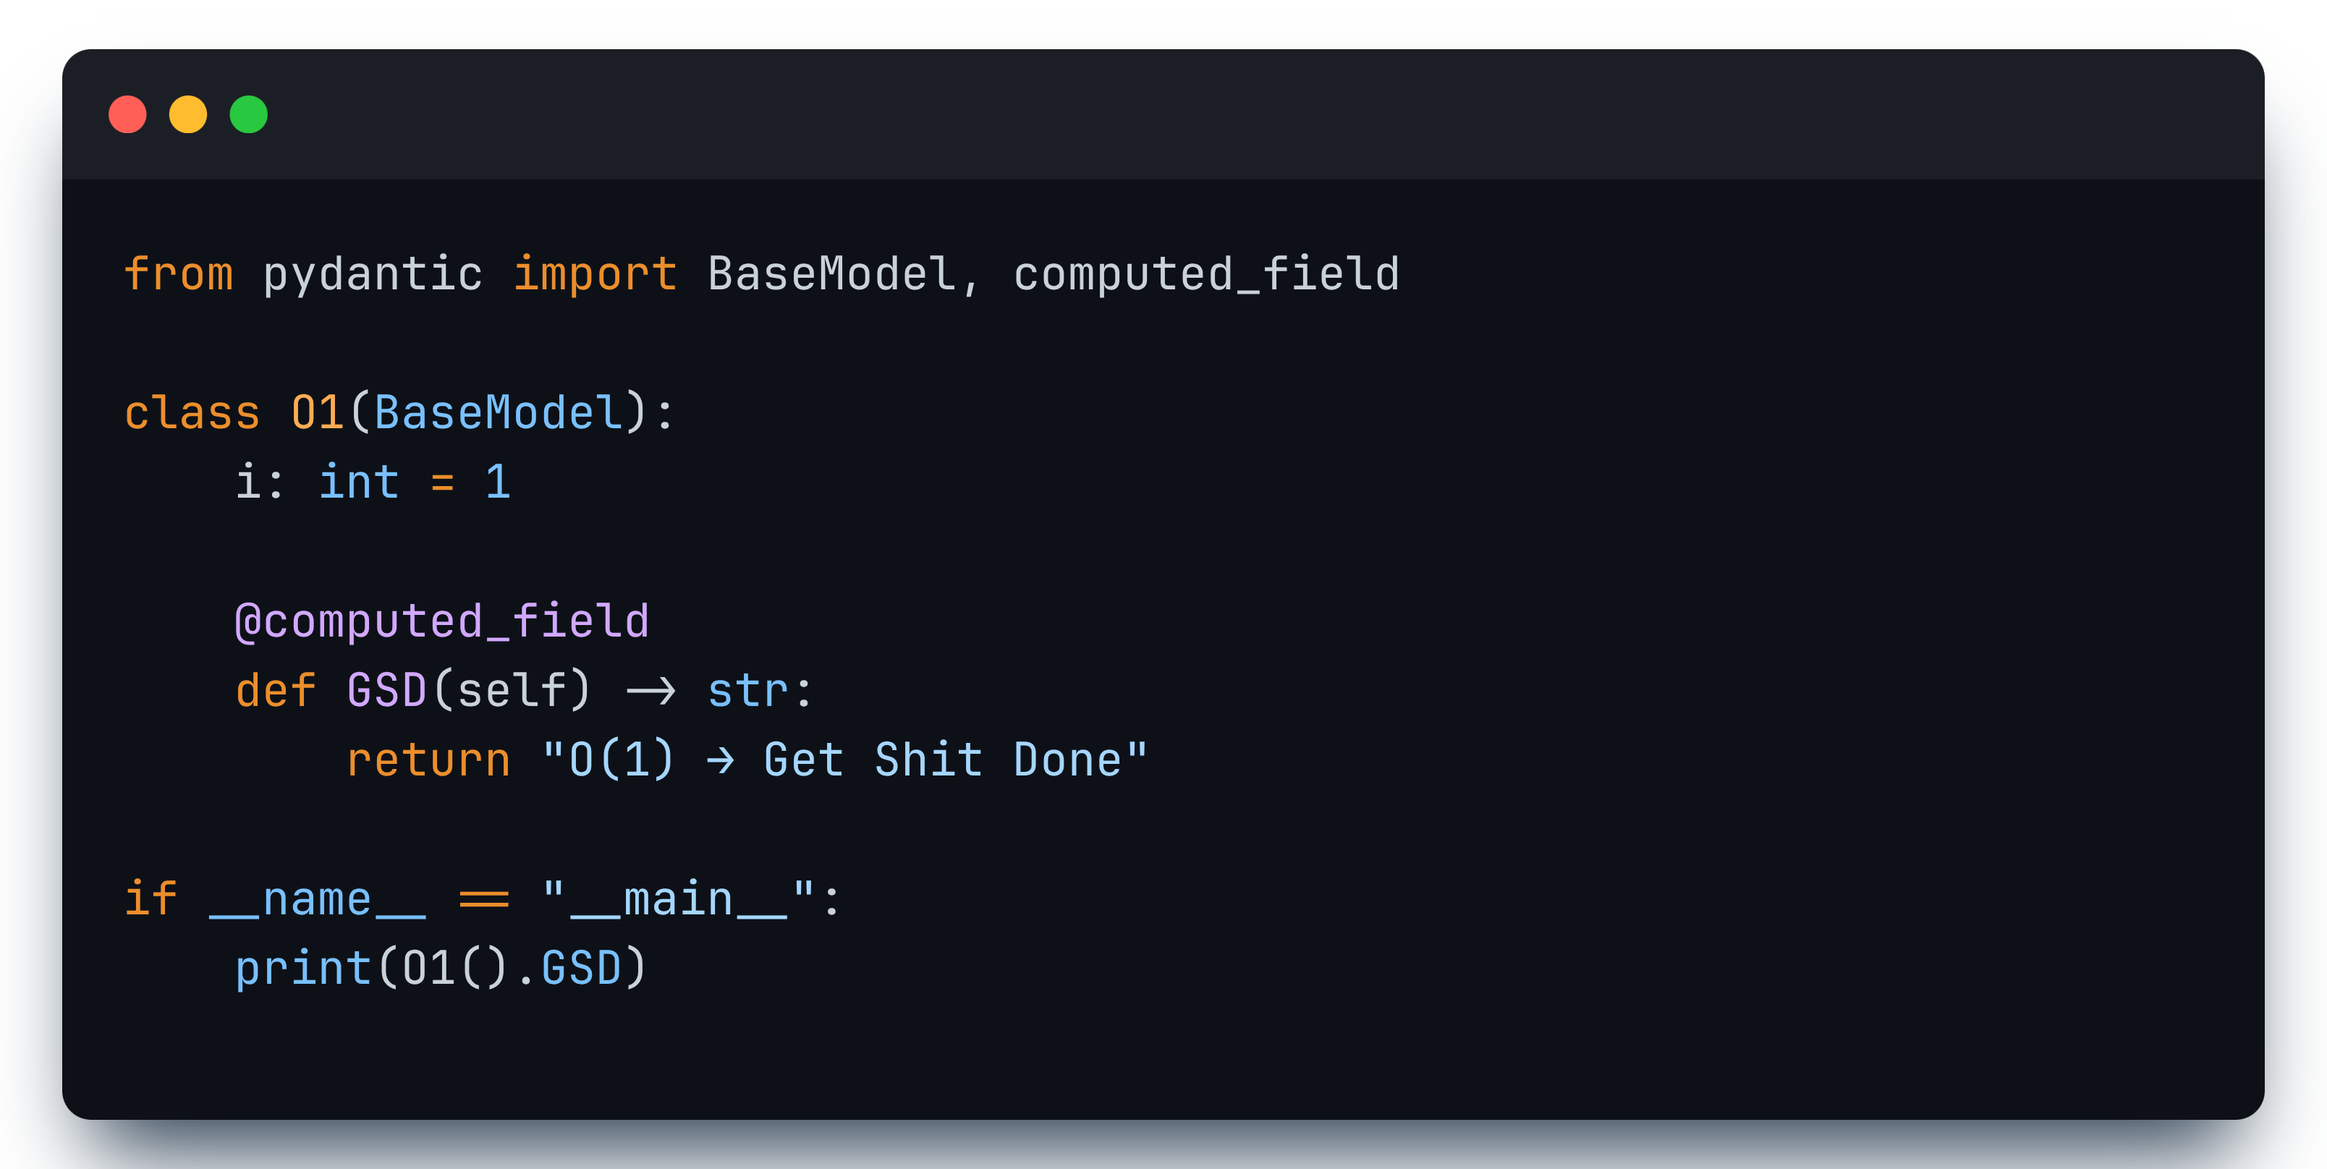
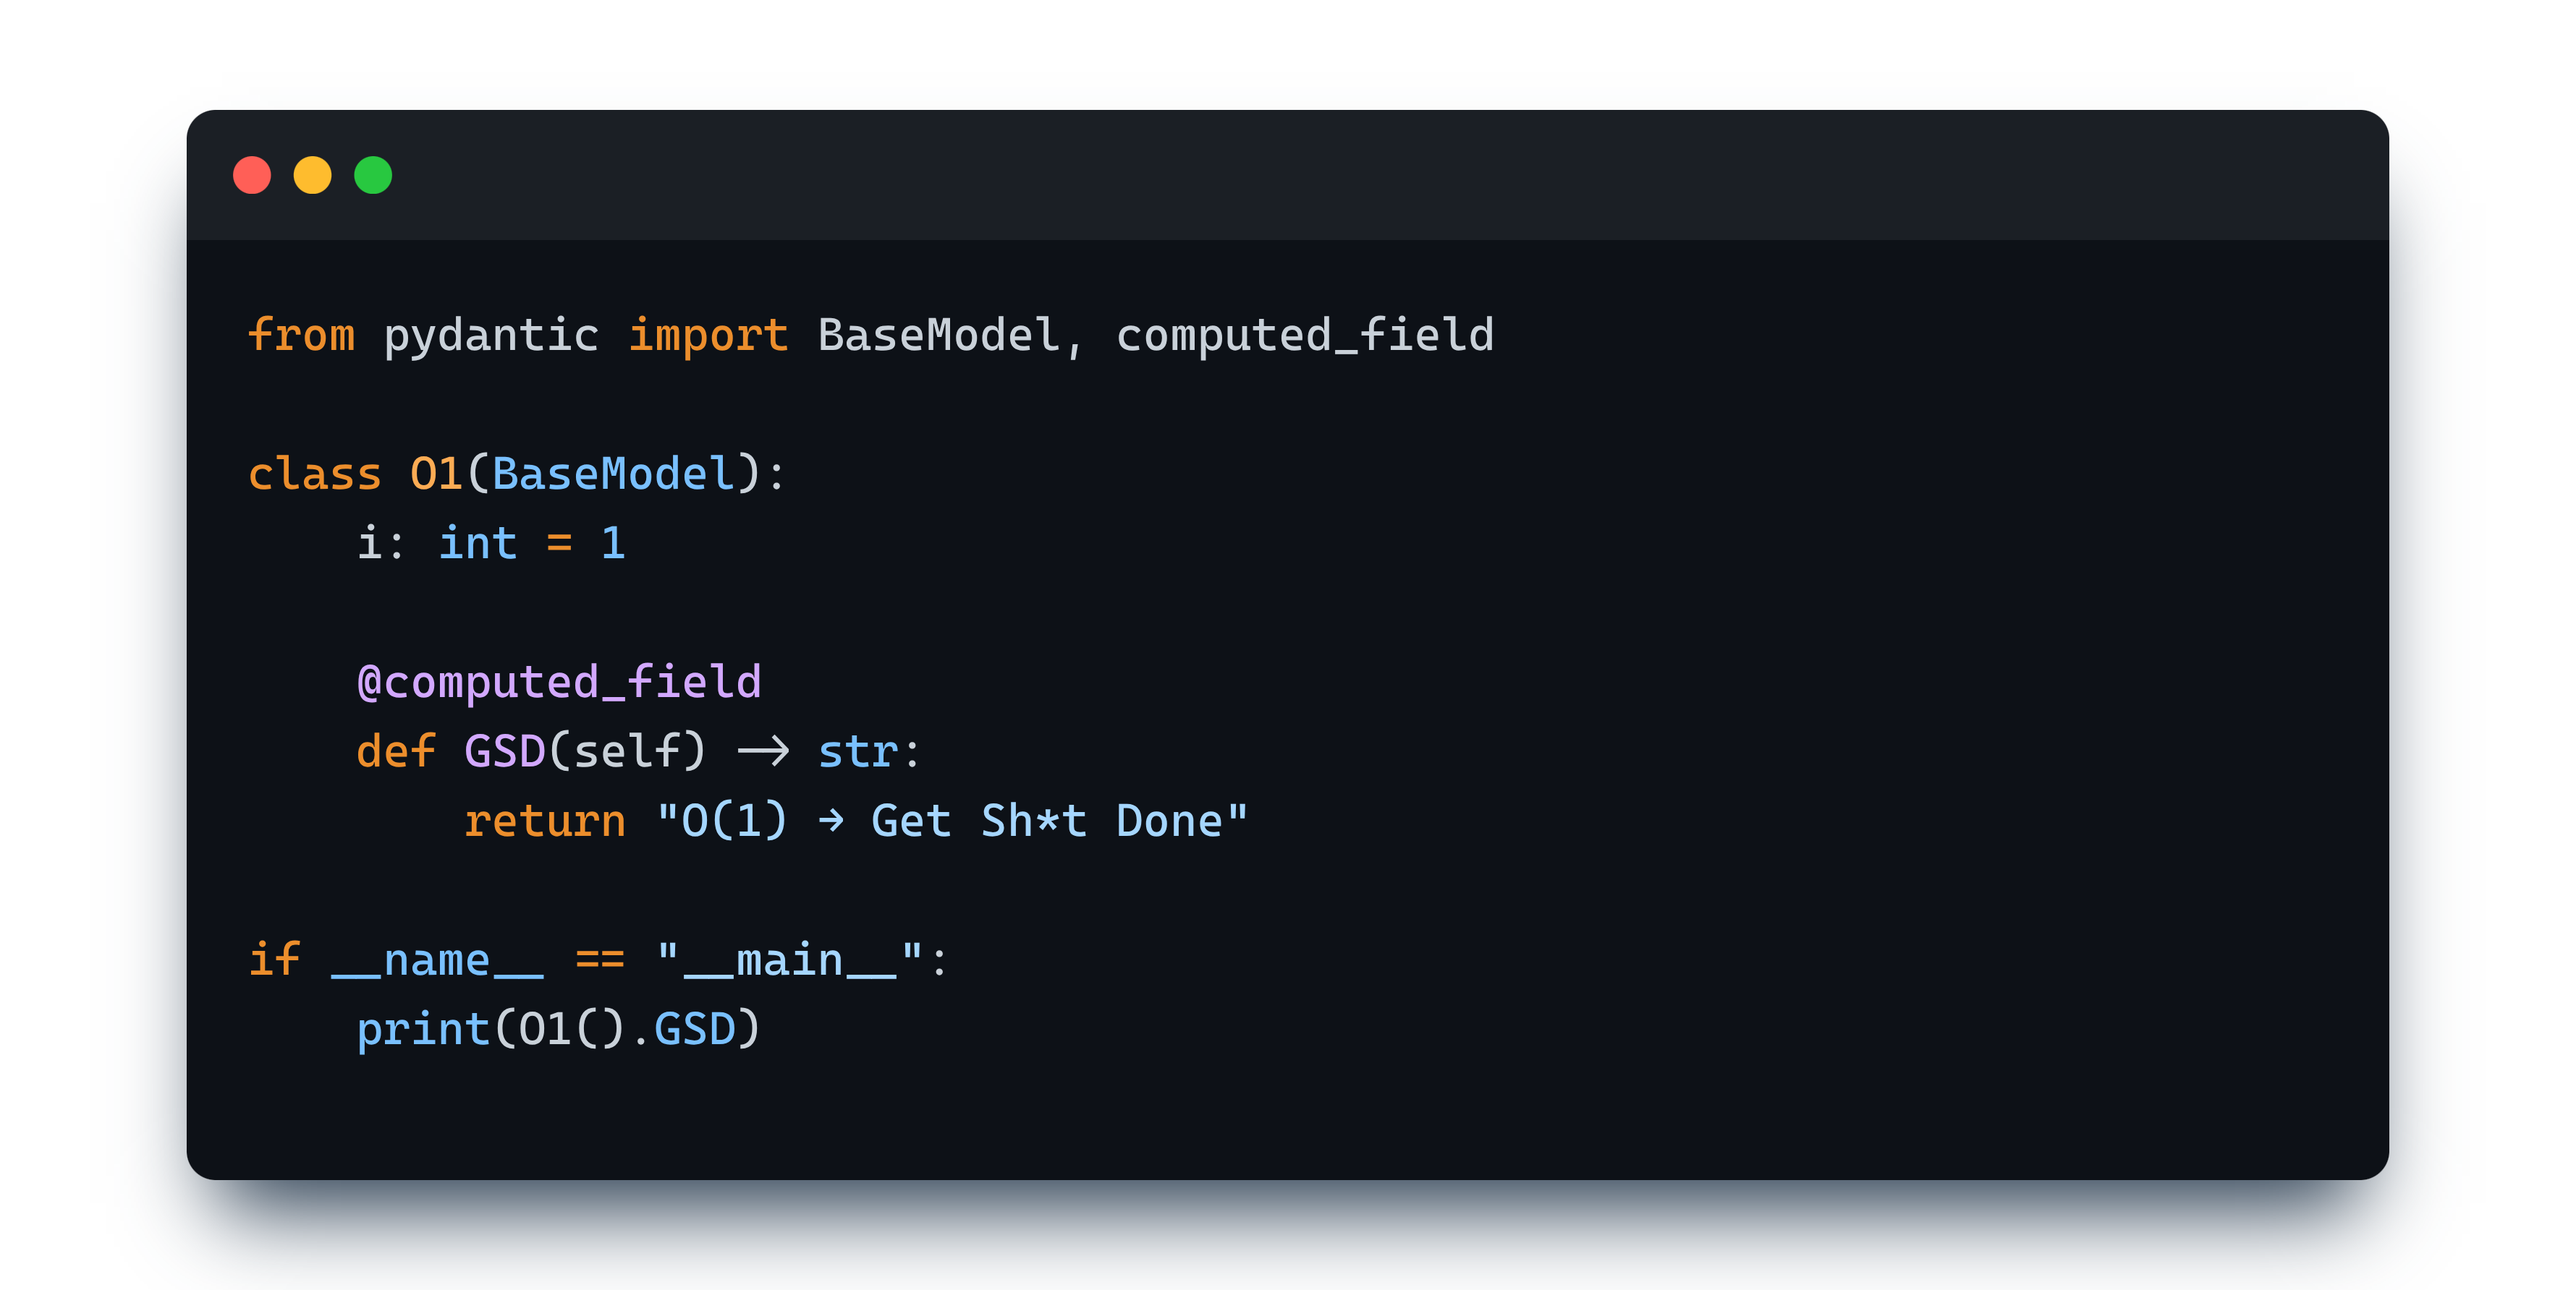
updated image (#4)
* updated image

* formatting update

Changed region(s): [[0.0, 0.0309, 0.995, 1.0]]

diff --git a/README.md b/README.md
@@ -9,10 +9,10 @@
 [![License: MIT](https://img.shields.io/badge/License-MIT-yellow)](LICENSE)
 
 <p align="center">
-  <img src="img/GSD_Snippet.png" alt="O(1) → Get Shit Done" width="700">
+  <img src="img/GSD_Snippet.png" alt="O(1) → Get Sh*t Done" width="700">
 </p>
 
-> **O(1)** means constant time—the fastest complexity class in computer science. No matter how big your problem gets, the solution takes the same time. **This architecture applies that principle to development:** skip accidental complexity, ship production systems, get shit done.
+*The term **O(1)** means constant time—the fastest complexity class in computer science. No matter how big your problem gets, the solution takes the same time. **This architecture applies that principle to development:** skip accidental complexity, ship production systems, **get sh\*t done**.*
 
 **Where architecture teaches itself through types, explicitness, and semantic richness**
 
